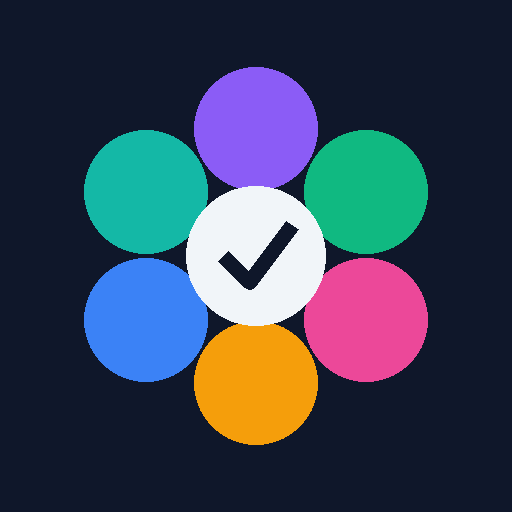
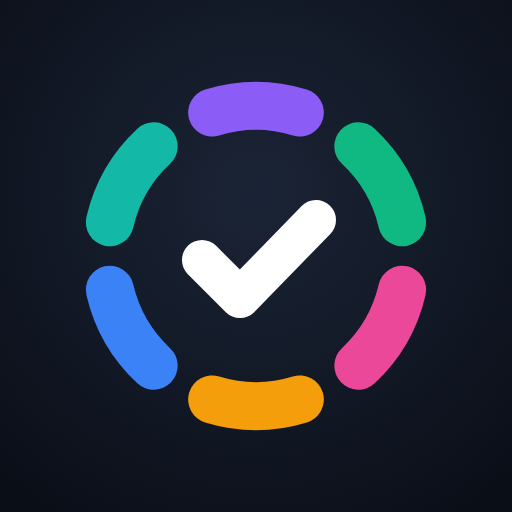
Add files via upload

Changed region(s): [[0.1562, 0.125, 0.8438, 0.875]]

diff --git a/app.js b/app.js
@@ -1,5 +1,5 @@
 /* =========================================================
-   HÁBITOS v4 · app.js
+   ÓRBITA (hábitos) v4.2 · app.js
    Datos en Supabase (tablas activities, habit_logs, goals,
    goal_entries, profile_settings). Cada cambio se aplica al
    instante en pantalla, se guarda en una cola local y se envía
@@ -359,6 +359,7 @@ const ICON = {
   down: '<svg viewBox="0 0 24 24"><path d="M6 9l6 6 6-6" fill="none" stroke="currentColor" stroke-width="2.4" stroke-linecap="round" stroke-linejoin="round"/></svg>',
   edit: '<svg viewBox="0 0 24 24"><path d="M4 20h4L19 9l-4-4L4 16v4z" fill="none" stroke="currentColor" stroke-width="2" stroke-linejoin="round"/></svg>'
 };
+const BRAND_LOGO = `<svg class="brand-logo" viewBox="0 0 1024 1024" aria-hidden="true">   <g class="ring"><path class="arc a0" d="M424.3 225.1A300 300 0 0 1 599.7 225.1" stroke="#8B5CF6" stroke-width="96" stroke-linecap="round" fill="none" pathLength="100"/>   <path class="arc a1" d="M716.6 292.6A300 300 0 0 1 804.3 444.5" stroke="#10B981" stroke-width="96" stroke-linecap="round" fill="none" pathLength="100"/>   <path class="arc a2" d="M804.3 579.5A300 300 0 0 1 716.6 731.4" stroke="#EC4899" stroke-width="96" stroke-linecap="round" fill="none" pathLength="100"/>   <path class="arc a3" d="M599.7 798.9A300 300 0 0 1 424.3 798.9" stroke="#F59E0B" stroke-width="96" stroke-linecap="round" fill="none" pathLength="100"/>   <path class="arc a4" d="M307.4 731.4A300 300 0 0 1 219.7 579.5" stroke="#3B82F6" stroke-width="96" stroke-linecap="round" fill="none" pathLength="100"/>   <path class="arc a5" d="M219.7 444.5A300 300 0 0 1 307.4 292.6" stroke="#14B8A6" stroke-width="96" stroke-linecap="round" fill="none" pathLength="100"/></g>   <path class="chk" d="M404 520L480 596L632 440" stroke="currentColor" stroke-width="80" stroke-linecap="round" stroke-linejoin="round" fill="none" pathLength="100"/> </svg>`;
 const TABS = [
   ['hoy', 'Hoy', '<svg viewBox="0 0 24 24"><circle cx="12" cy="12" r="9" fill="none" stroke="currentColor" stroke-width="2"/><path d="M8 12.3l2.7 2.7L16.5 9" fill="none" stroke="currentColor" stroke-width="2.2" stroke-linecap="round" stroke-linejoin="round"/></svg>'],
   ['categorias', 'Categorías', '<svg viewBox="0 0 24 24"><rect x="3.5" y="3.5" width="7" height="7" rx="2" fill="none" stroke="currentColor" stroke-width="2"/><rect x="13.5" y="3.5" width="7" height="7" rx="2" fill="none" stroke="currentColor" stroke-width="2"/><rect x="3.5" y="13.5" width="7" height="7" rx="2" fill="none" stroke="currentColor" stroke-width="2"/><rect x="13.5" y="13.5" width="7" height="7" rx="2" fill="none" stroke="currentColor" stroke-width="2"/></svg>'],
@@ -375,10 +376,10 @@ const whoText = (w) => (w === 'ambos' ? 'José y Blanca' : PEOPLE[w].name);
 function render() {
   refreshToday();
   if (S.date > TODAY_S) S.date = TODAY_S;
-  $('#tabbar').innerHTML = `<div class="side-brand">Hábitos</div>` + TABS.map(([id, label, svg]) =>
+  $('#tabbar').innerHTML = `<div class="side-brand">${BRAND_LOGO}<span>${APP_NAME}</span></div>` + TABS.map(([id, label, svg]) =>
     `<button class="tab ${S.view === id || (id === 'categorias' && S.view === 'categoria') || (id === 'ajustes' && (S.view === 'gestionar' || S.view === 'atajos')) ? 'on' : ''}" data-act="nav" data-v="${id}">${svg}<span>${label}</span></button>`).join('');
   if (!S.loaded && !ACTS.length) {
-    $('#main').innerHTML = `<div class="top"><div><h1>Hábitos</h1></div>${syncChip()}</div>${globalBanners()}<div class="loading">${S.syncErr ? 'No se pudieron cargar los datos.' : 'Cargando tus hábitos…'}</div>`;
+    $('#main').innerHTML = `<div class="top"><div><h1>${APP_NAME}</h1></div>${syncChip()}</div>${globalBanners()}<div class="loading">${S.syncErr ? 'No se pudieron cargar los datos.' : 'Cargando tus hábitos…'}</div>`;
     return;
   }
   const views = { hoy: viewHoy, categorias: viewCats, categoria: viewCat, historial: viewHist, stats: viewStats, ajustes: viewAjustes, gestionar: viewManage, atajos: viewShortcuts };
@@ -695,7 +696,7 @@ function viewAjustes() {
   <div class="group"><div class="set-row"><span class="lab">Tema</span><div class="seg">${[['system', 'Sistema'], ['light', 'Claro'], ['dark', 'Oscuro']].map(([id, l]) => `<button class="${S.theme === id ? 'on' : ''}" data-act="theme" data-t="${id}">${l}</button>`).join('')}</div></div></div>
   <div class="sec-h"><h2>Datos</h2></div>
   <div class="group"><div class="set-row"><span class="lab">Sincronización</span>${syncChip()}</div><button class="set-row" data-act="sync"><span class="lab" style="color:var(--accent)">Actualizar ahora</span><span></span></button></div>
-  <p class="set-note">Hábitos v4.0</p>`;
+  <p class="set-note">${APP_NAME} v4.2</p>`;
 }
 function viewManage() {
   const blocks = CATS.map((c) => {
@@ -883,7 +884,7 @@ function celebrate(a, n) {
   const last = Array.from({ length: 14 }, (_, i) => status(a, p, ds(addDays(TODAY, i - 13))) === 'done');
   const el = document.createElement('div'); el.className = 'celebrate'; el.dataset.act = 'closecel';
   el.innerHTML = `<div class="cel-card" style="--c:${c}"><div class="big">🔥</div><h3>¡${n} días seguidos!</h3><div style="color:var(--muted)">${esc(a.name)} · logro «${n === 7 ? 'Primera semana' : n === 30 ? 'Un mes sin fallar' : 'Centenario'}» desbloqueado</div>
-    <div class="share"><div class="s-top"><span>${PEOPLE[p].name} · Hábitos</span><span>${TODAY.getDate()} ${MON3[TODAY.getMonth()]} ${TODAY.getFullYear()}</span></div><div class="s-n">${n} días</div><div>${a.icon} ${esc(a.name)}</div><div class="s-d">${last.map((on) => `<i class="${on ? 'on' : ''}"></i>`).join('')}</div></div>
+    <div class="share"><div class="s-top"><span>${PEOPLE[p].name} · ${APP_NAME}</span><span>${TODAY.getDate()} ${MON3[TODAY.getMonth()]} ${TODAY.getFullYear()}</span></div><div class="s-n">${n} días</div><div>${a.icon} ${esc(a.name)}</div><div class="s-d">${last.map((on) => `<i class="${on ? 'on' : ''}"></i>`).join('')}</div></div>
     <div class="actions"><button class="btn primary" data-act="closecel">Genial</button></div><p class="set-note" style="padding:8px 0 0">Para compartirla, haz una captura de pantalla.</p></div>`;
   document.body.appendChild(el); confetti(c);
 }

diff --git a/index.html b/index.html
@@ -3,18 +3,49 @@
 <head>
   <meta charset="UTF-8" />
   <meta name="viewport" content="width=device-width, initial-scale=1, viewport-fit=cover, maximum-scale=1" />
-  <title>Hábitos</title>
+  <title>Órbita</title>
   <link rel="manifest" href="manifest.json" />
   <meta name="theme-color" content="#F2F4F7" media="(prefers-color-scheme: light)" />
   <meta name="theme-color" content="#090C12" media="(prefers-color-scheme: dark)" />
   <meta name="apple-mobile-web-app-capable" content="yes" />
   <meta name="mobile-web-app-capable" content="yes" />
   <meta name="apple-mobile-web-app-status-bar-style" content="default" />
-  <meta name="apple-mobile-web-app-title" content="Hábitos" />
-  <link rel="apple-touch-icon" href="icon-192.png" />
-  <link rel="stylesheet" href="styles.css?v=4.0" />
+  <meta name="apple-mobile-web-app-title" content="Órbita" />
+  <link rel="apple-touch-icon" href="apple-touch-icon.png" />
+  <link rel="icon" type="image/svg+xml" href="logo.svg" />
+  <link rel="stylesheet" href="styles.css?v=4.2" />
+  <style>
+    /* Animación de apertura «Trazo» (1 s): los seis arcos aparecen uno tras otro girando hasta su sitio,
+       después el check y el nombre; a los 0,82 s todo se funde con la app. */
+    #splash{position:fixed;inset:0;z-index:100;display:flex;flex-direction:column;align-items:center;justify-content:center;gap:18px;
+      background:var(--bg,#F2F4F7);color:var(--fg,#101521);animation:spl-out .18s ease-in .82s forwards}
+    #splash .orb{width:132px;height:132px;overflow:visible}
+    #splash .arc,#splash .chk{transform-box:fill-box;transform-origin:center;opacity:0}
+    #splash .arc{animation:spl-in .26s cubic-bezier(.2,.8,.2,1) forwards}
+    #splash .a1{animation-delay:.07s}#splash .a2{animation-delay:.14s}#splash .a3{animation-delay:.21s}#splash .a4{animation-delay:.28s}#splash .a5{animation-delay:.35s}
+    #splash .chk{animation:spl-pop .22s ease-out .5s forwards}
+    #splash .name{font:800 30px/1 ui-rounded,"SF Pro Rounded",-apple-system,BlinkMacSystemFont,sans-serif;letter-spacing:-.01em;opacity:0;transform:translateY(6px);animation:spl-name .25s ease-out .42s forwards}
+    @keyframes spl-in{from{opacity:0;transform:scale(.3) rotate(-25deg)}to{opacity:1;transform:none}}
+    @keyframes spl-pop{from{opacity:0;transform:scale(.35)}to{opacity:1;transform:none}}
+    @keyframes spl-name{to{opacity:1;transform:none}}
+    @keyframes spl-out{to{opacity:0;visibility:hidden}}
+    @media (prefers-reduced-motion:reduce){#splash{display:none}}
+  </style>
 </head>
 <body>
+  <div id="splash" aria-hidden="true">
+    <svg class="orb" viewBox="0 0 1024 1024" aria-hidden="true">
+      <g><path class="arc a0" d="M424.3 225.1A300 300 0 0 1 599.7 225.1" stroke="#8B5CF6" stroke-width="96" stroke-linecap="round" fill="none"/>
+      <path class="arc a1" d="M716.6 292.6A300 300 0 0 1 804.3 444.5" stroke="#10B981" stroke-width="96" stroke-linecap="round" fill="none"/>
+      <path class="arc a2" d="M804.3 579.5A300 300 0 0 1 716.6 731.4" stroke="#EC4899" stroke-width="96" stroke-linecap="round" fill="none"/>
+      <path class="arc a3" d="M599.7 798.9A300 300 0 0 1 424.3 798.9" stroke="#F59E0B" stroke-width="96" stroke-linecap="round" fill="none"/>
+      <path class="arc a4" d="M307.4 731.4A300 300 0 0 1 219.7 579.5" stroke="#3B82F6" stroke-width="96" stroke-linecap="round" fill="none"/>
+      <path class="arc a5" d="M219.7 444.5A300 300 0 0 1 307.4 292.6" stroke="#14B8A6" stroke-width="96" stroke-linecap="round" fill="none"/></g>
+      <path class="chk" d="M404 520L480 596L632 440" stroke="currentColor" stroke-width="80" stroke-linecap="round" stroke-linejoin="round" fill="none"/>
+    </svg>
+    <div class="name">Órbita</div>
+  </div>
+  <script>setTimeout(function () { var s = document.getElementById('splash'); if (s) s.remove(); }, 1000);</script>
   <div class="shell">
     <nav class="tabbar" id="tabbar" aria-label="Secciones"></nav>
     <main class="main" id="main"></main>
@@ -34,7 +65,7 @@
   </script>
 
   <script src="supabase.js" defer></script>
-  <script src="config.js?v=4.0" defer></script>
-  <script src="app.js?v=4.0" defer></script>
+  <script src="config.js?v=4.2" defer></script>
+  <script src="app.js?v=4.2" defer></script>
 </body>
 </html>

diff --git a/service-worker.js b/service-worker.js
@@ -1,9 +1,9 @@
 // Service worker de Hábitos v4.
 // Red primero (para recibir siempre la última versión) y caché como
 // respaldo sin conexión. Nunca cachea las llamadas a Supabase.
-const CACHE_NAME = 'habitos-v4.0';
+const CACHE_NAME = 'habitos-v4.2';
 const APP_SHELL = [
-  './', './index.html', './styles.css?v=4.0', './config.js?v=4.0', './app.js?v=4.0',
+  './', './index.html', './styles.css?v=4.2', './config.js?v=4.2', './app.js?v=4.2', './logo.svg', './apple-touch-icon.png',
   './supabase.js', './manifest.json', './icon-192.png', './icon-512.png'
 ];
 

diff --git a/styles.css b/styles.css
@@ -319,3 +319,6 @@ canvas#confetti{position:fixed;inset:0;pointer-events:none;z-index:70}
 .copy code{display:block;font-family:ui-monospace,SFMono-Regular,Menlo,monospace;font-size:12.5px;word-break:break-all;margin-top:2px;color:var(--fg)}
 .steps{margin:0;padding-left:20px;display:flex;flex-direction:column;gap:8px;font-size:14px}
 .steps li::marker{color:var(--accent);font-weight:700}
+.side-brand{align-items:center;gap:10px}
+@media (min-width:900px){.side-brand{display:flex}}
+.brand-logo{width:30px;height:30px;color:var(--fg);flex:none}

diff --git a/config.js b/config.js
@@ -4,6 +4,9 @@
 // reordenan y archivan desde la propia app (Ajustes → Actividades).
 // ============================================================
 
+// Nombre de la app (también en index.html y manifest.json)
+const APP_NAME = 'Órbita';
+
 // Datos de tu proyecto Supabase (Project Settings → API)
 const SUPABASE_URL = 'https://ukyxdpbccabrrqugofwl.supabase.co';
 const SUPABASE_ANON_KEY = 'sb_publishable_QWpw3AO3QRNpIior8Zx15A_xD_gYXhY';

diff --git a/README.md b/README.md
@@ -1,4 +1,4 @@
-# Hábitos v4
+# Órbita · hábitos v4.2
 
 App web instalable (PWA) para registrar hábitos en iPhone y iPad, sincronizada entre José y Blanca mediante Supabase.
 
@@ -12,7 +12,7 @@ App web instalable (PWA) para registrar hábitos en iPhone y iPad, sincronizada 
 | `config.js` | URL y clave de Supabase, personas y categorías |
 | `supabase.js` | Librería de Supabase (incluida, sin depender de internet) |
 | `service-worker.js` | Funcionamiento sin conexión y actualizaciones |
-| `manifest.json` + iconos | Instalación en la pantalla de inicio |
+| `manifest.json`, iconos, `apple-touch-icon.png`, `logo.svg` | Instalación en la pantalla de inicio y logotipo |
 | `supabase-v4.sql` | Script que se ejecuta una vez en Supabase → SQL Editor |
 
 ## Instalación
